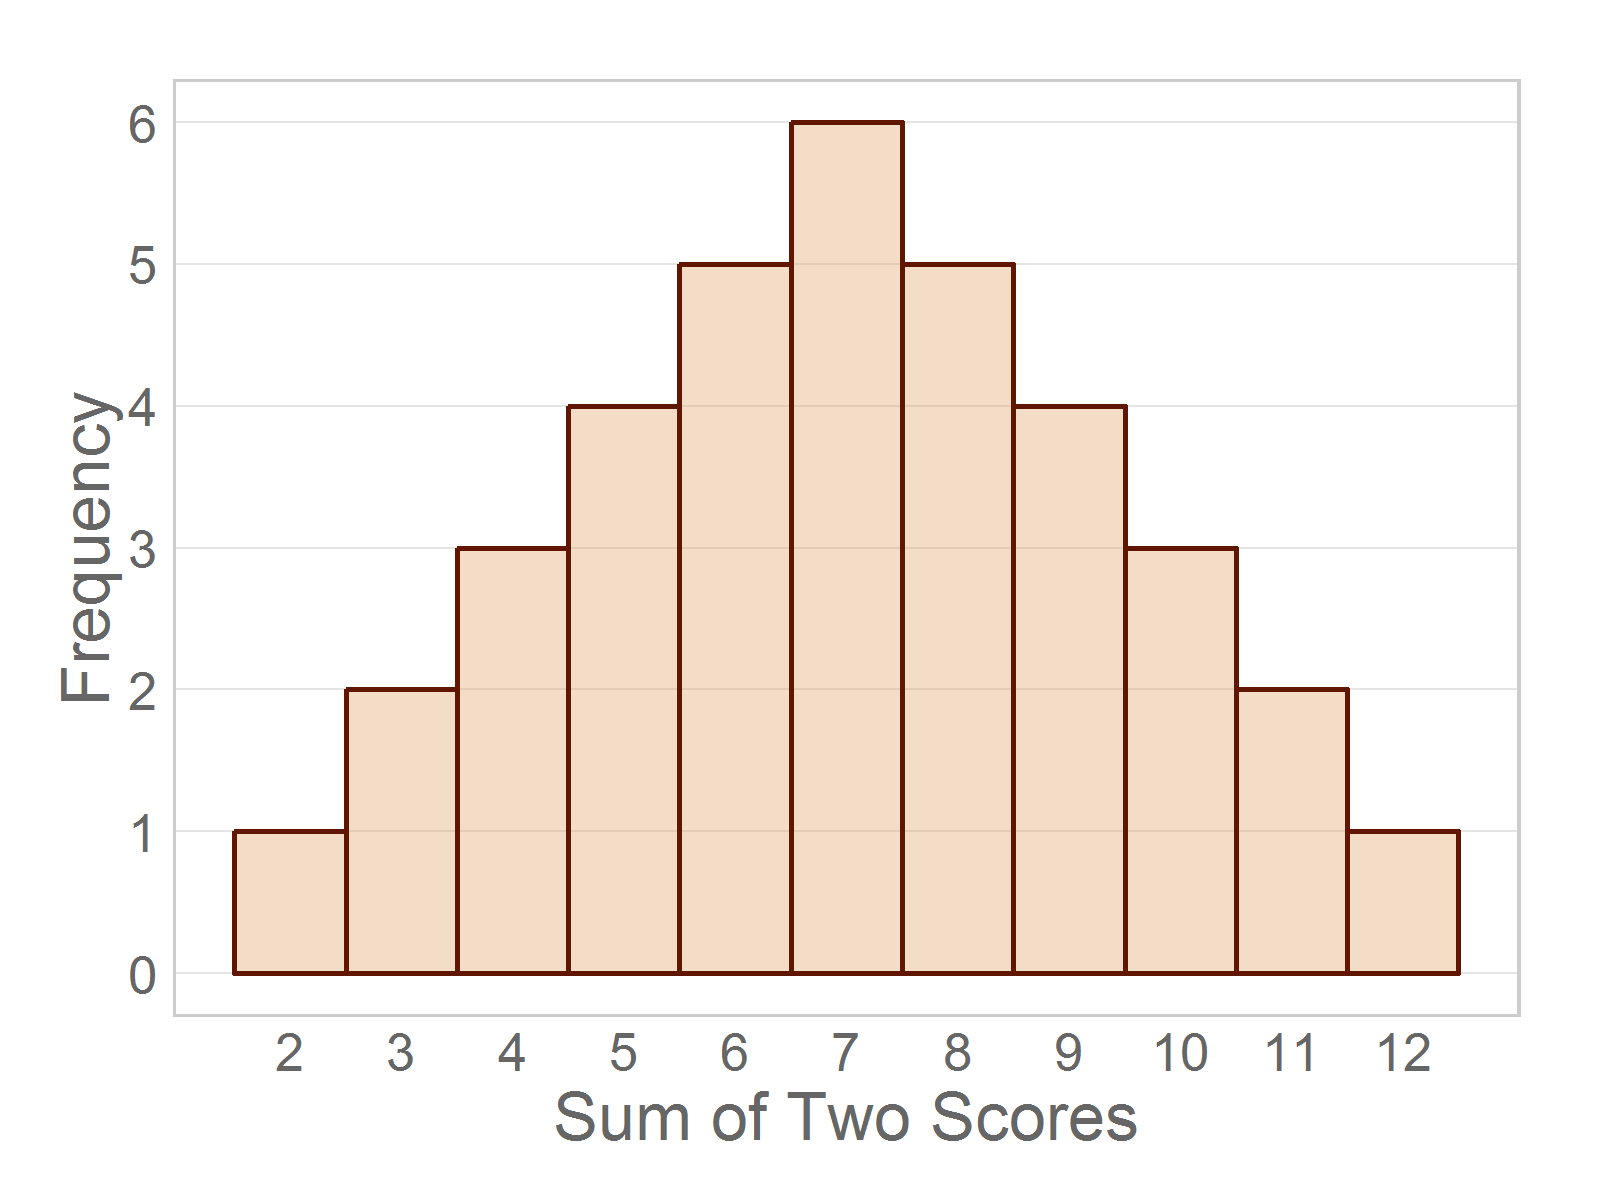
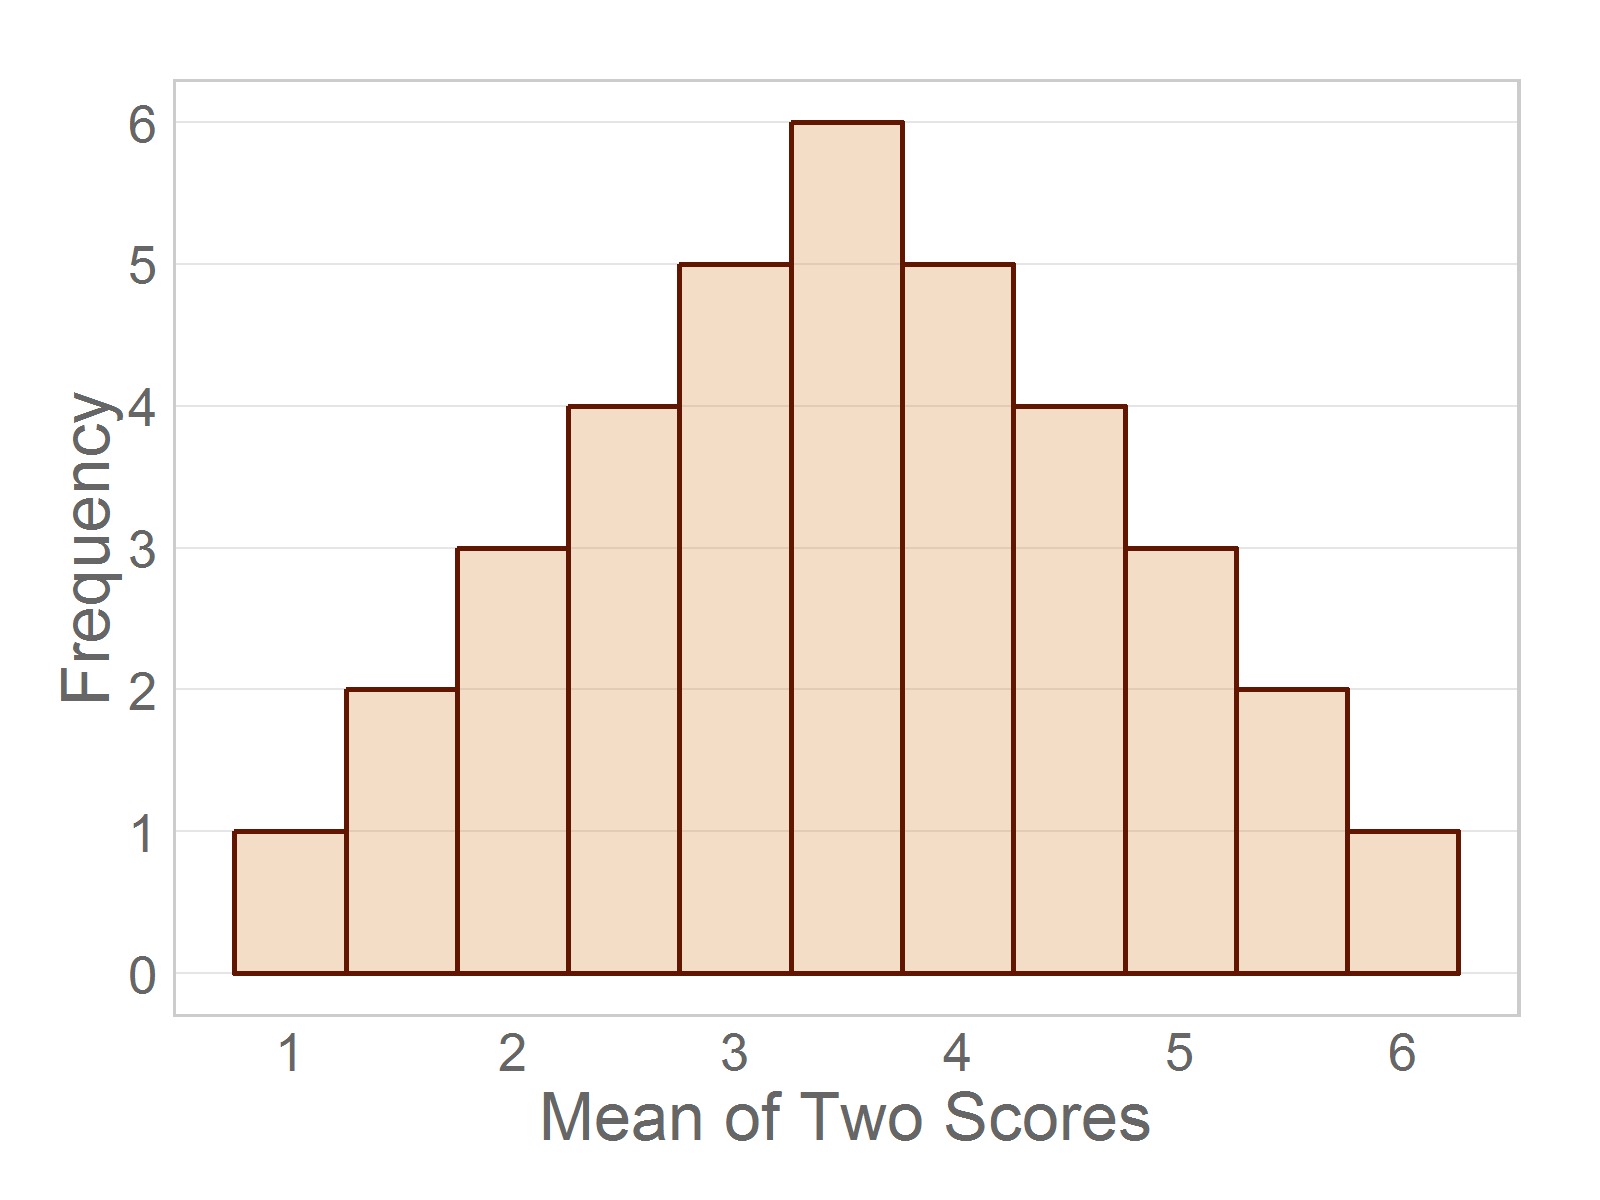
Changing Figure 7-05 to means (not sums)

diff --git a/Chapter07/Chapter07.html b/Chapter07/Chapter07.html
@@ -243,7 +243,7 @@ read_chunk(&quot;./Chapter07/Chapter07.R&quot;)
 <pre><code>Reminder, the publisher needs to add the title `All Possible Means (N=2) from Limited Population`, where the `N` is italicized.
 </code></pre>
 
[2 lines of base64/hex data omitted]
 
 <h2>Figure 7-6</h2>
 
@@ -253,7 +253,7 @@ read_chunk(&quot;./Chapter07/Chapter07.R&quot;)
 
 <p>For the sake of documentation and reproducibility, the current report was build on a system using the following software.</p>
 
-<pre><code>Report created by Will at 2014-04-07, 22:39 Central Daylight Time
+<pre><code>Report created by Will at 2014-04-08, 20:19 Central Daylight Time
 </code></pre>
 
 <pre><code>R version 3.0.3 Patched (2014-03-06 r65320)

diff --git a/Chapter07/Chapter07.md b/Chapter07/Chapter07.md
@@ -85,7 +85,7 @@ For the sake of documentation and reproducibility, the current report was build 
 
 
 ```
-Report created by Will at 2014-04-07, 22:39 Central Daylight Time
+Report created by Will at 2014-04-08, 20:19 Central Daylight Time
 ```
 
 ```
